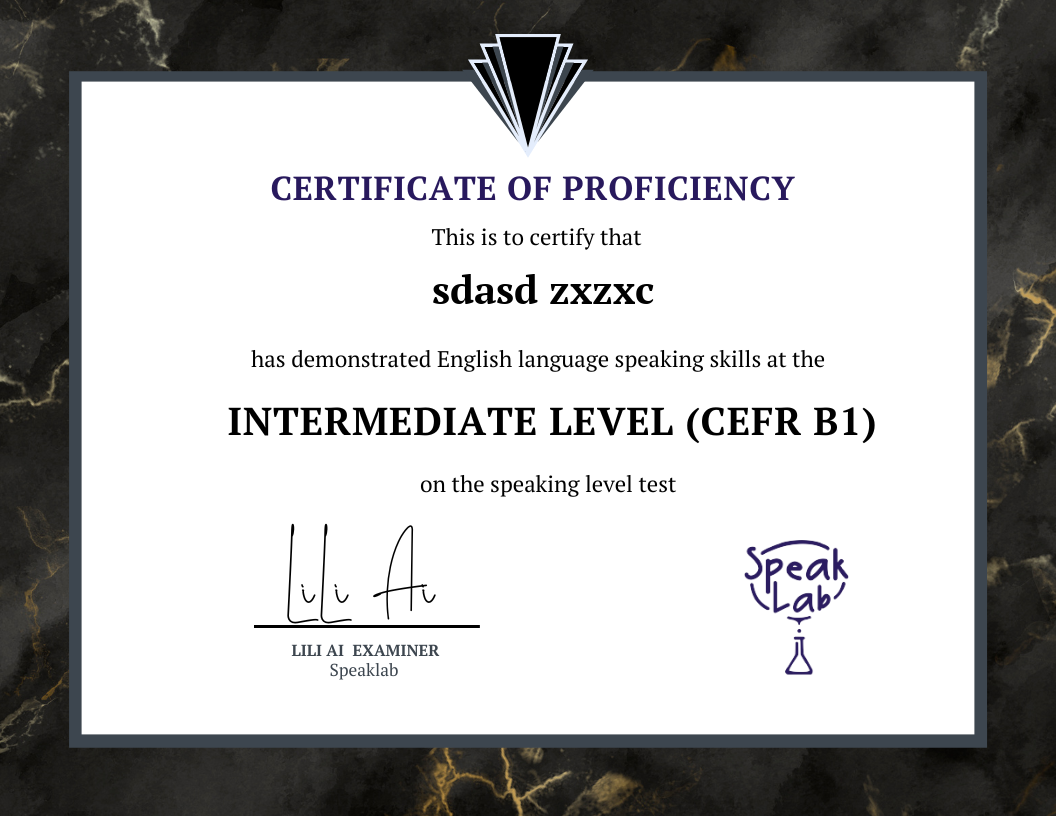
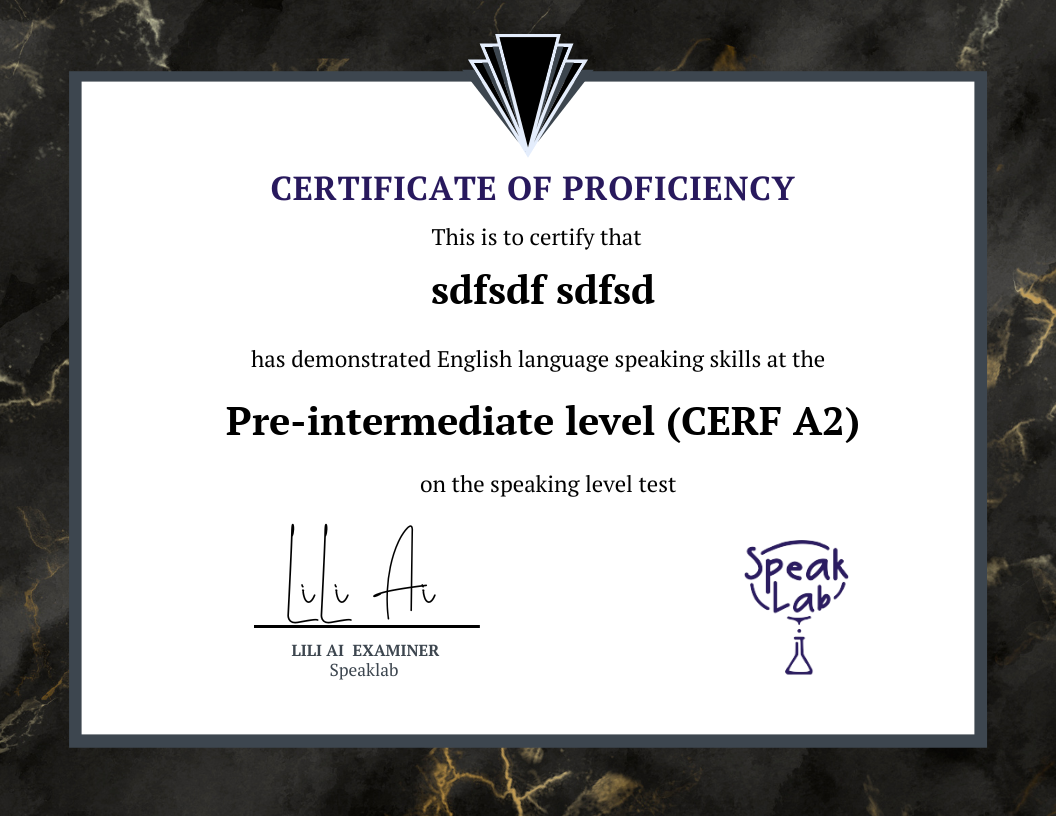
no message

Changed region(s): [[0.2188, 0.4902, 0.8438, 0.5515], [0.4062, 0.337, 0.625, 0.3983]]

diff --git a/etest/templates/etest/testpage2.html b/etest/templates/etest/testpage2.html
@@ -29,7 +29,7 @@
       }
   
       .start-button {
-        background-color: #bd3f4b;
+        background-color: rgb(89, 46, 207);
         color: white;
         border: none;
         border-radius: 5px;
@@ -76,6 +76,12 @@
         bottom: 38%;
         /* display: none; */
       }
+
+      img{
+        width: 50%;
+        margin-top: 13%;
+        margin-left: 24%;
+      }
   
       /* Media Queries */
 @media (max-width: 1200px) {
@@ -99,6 +105,8 @@
 }
 
 @media (max-width: 768px) {
+
+ 
   .container {
     height: 300px;
   }
@@ -160,15 +168,19 @@
   <button class="corner-button left" id="startrec">Start Recording</button>
   <button class="corner-button middle" id="downloadButton">Download</button>
   <button class="corner-button right" id="stoprec">Stop Recording</button>
+  
 </div>
 
     <script>
 
-const test_start = () => {
-        fetch(`{% url 'question_generator' %}`)
+const test_start = () => { 
+        // fetch(`{% url 'question_generator' %}`)
+        fetch("https://voice-ranker-test.azurewebsites.net/api/random-prompt",{
+          method: 'POST'
+        })
         .then(response => response.json())
         .then(data => {
-          document.getElementById('question_h2').textContent = data.message;
+          document.getElementById('question_h2').textContent = data.prompt;
           document.getElementById('question_h2').style.display = 'block';
           document.getElementById('startbtn').style.display = 'none';
           document.getElementById('startrec').style.display = 'block';
@@ -229,9 +241,9 @@ const test_start = () => {
             .then(response => response.json())
             .then(data => {
               // Process the API response
-              document.getElementById('question_h2').textContent = "Your test is done.";
+              document.getElementById('question_h2').textContent = data.message;
               document.getElementById('downloadButton').style.display = 'block';
-              
+
 
             })
             .catch(error => {
@@ -280,7 +292,9 @@ const test_start = () => {
   };
 
   const downloadCertificate = () => {
-        fetch(`{% url 'generate_certificate' %}`)
+        let level = document.getElementById('question_h2').textContent
+        // fetch("{% url 'generate_certificate' 'level' %}")
+        fetch(`/get-certificate/${level}`)
         .then(response => response.blob())
         .then(blob => {
             const filename = 'certificate.png';
@@ -288,8 +302,11 @@ const test_start = () => {
 
             const a = document.createElement('a');
             a.href = url;
+            console.log('sdssdsdsd: ', a.href)
             a.download = filename;
             a.click();
+
+           
 
         })
         .catch(error => {

diff --git a/etest/views.py b/etest/views.py
@@ -103,7 +103,7 @@ def audio_file(request):
 
             data = {
                 'status' : 200,
-                'message':encoded_token,
+                'message':'Pre-intermediate level (CERF A2)',
                 # 'next_page_token' : encoded_token,
                 'data' : []
             }
@@ -121,10 +121,19 @@ def audio_file(request):
 from PIL import Image, ImageDraw, ImageFont
 from django.http import HttpResponse
 @login_required(login_url='/')
-def generate_certificate(request):
+def generate_certificate(request,level):
     # Load the certificate design image
-    template_path = settings.STATIC_ROOT + '/certificate_template.png'  # Replace with the actual path to your certificate design image
+    template_path = settings.STATIC_ROOT + '/new_certificate_template.png'  # Replace with the actual path to your certificate design image
     template_image = Image.open(template_path)
+
+
+    # certificate levels
+    # Beginner level (CERF A1)
+    # Pre-intermediate level (CERF A2)
+    # Intermediate level (CERF B1)
+    # Upper-Intermediate level	 (CERF B2)
+    # Advanced	level (CERF C1)
+    # Proficiency level (CERF C2)
 
     # Specify the font type, size, and color
     font_path = settings.STATIC_ROOT + '/PTSerif_Bold.ttf'  # Replace with the actual path to your font file
@@ -132,6 +141,8 @@ def generate_certificate(request):
     font_color = (0, 0, 0)  # Black color
 
     new_text = str(request.user.app_user.first_name) + " " + str(request.user.app_user.last_name)  # Replace with the new text you want to use
+    level_text = str(level)
+
 
     
     edited_image = template_image.copy()
@@ -141,10 +152,15 @@ def generate_certificate(request):
     # Find the position to place the new text
     text_width, text_height = draw.textsize(new_text, font=font)
     position = ((edited_image.width - (text_width-30)) // 2, (edited_image.height - (text_height+250)) // 2)
-    
-
     # Replace the old text with the new text
     draw.text(position, new_text, font=font, fill=font_color)
+
+
+    text_width, text_height = draw.textsize(level_text, font=font)
+    position = ((edited_image.width - (text_width-30)) // 2, (edited_image.height - (text_height-20)) // 2)
+    # Replace the old text with the new text
+    draw.text(position, level_text, font=font, fill=font_color)
+    
 
     # Create a response and save the edited image
     response = HttpResponse(content_type='image/png')

diff --git a/etest/urls.py b/etest/urls.py
@@ -11,7 +11,7 @@ urlpatterns = [
     path('test/', test, name='test'),
     path('logout', logout_button, name='logout'),
     path('audio-file', audio_file, name='audio_file'),
-    path('get-certificate', generate_certificate, name='generate_certificate'),
+    path('get-certificate/<str:level>', generate_certificate, name='generate_certificate'),
     path('result/<str:token>', result_page, name='result_page'),
     path('question-generator', question_generator, name='question_generator'),
 ]
